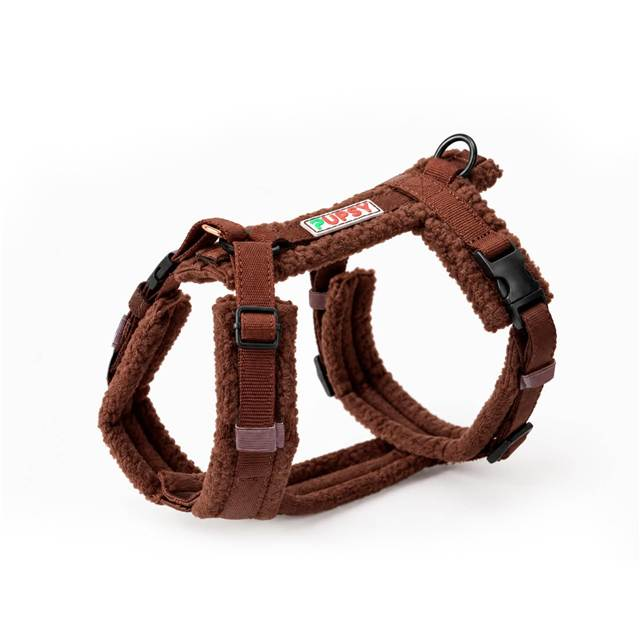
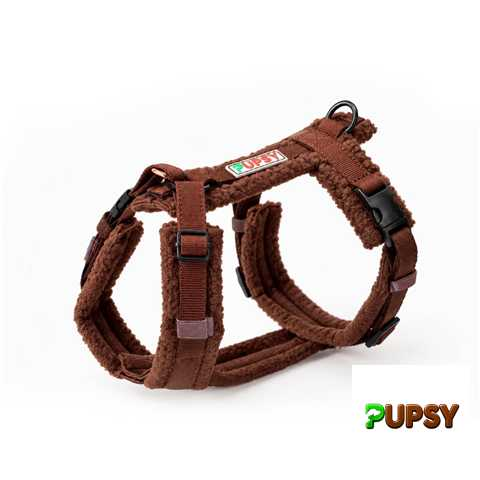
Brand product previews and add collection sharing image

diff --git a/shop.html b/shop.html
@@ -5785,8 +5785,8 @@
   <meta property="og:title" content="Pupsy - Dog Accessories">
   <meta property="og:type" content="website">
   <meta property="og:description" content="Want to look STYLISH while walking your dog? Looking for the BEST dog accessories? Pupsy is focused on providing you with beautiful dog accessories like cotton rope natural dyed dog leashes!">
-  <meta property="og:image" content="https://pupsystores-glitch.github.io/PUPSYWEB/images/pupsy-share-preview-v2.png">
-  <meta property="og:image:secure_url" content="https://pupsystores-glitch.github.io/PUPSYWEB/images/pupsy-share-preview-v2.png"><meta property="og:image:type" content="image/png"><meta property="og:image:width" content="1320"><meta property="og:image:height" content="1154"><meta property="og:image:alt" content="PUPSY logo">
+  <meta property="og:image" content="https://pupsystores-glitch.github.io/PUPSYWEB/images/share/new-collection.jpg">
+  <meta property="og:image:secure_url" content="https://pupsystores-glitch.github.io/PUPSYWEB/images/share/new-collection.jpg"><meta property="og:image:type" content="image/jpeg"><meta property="og:image:width" content="800"><meta property="og:image:height" content="600"><meta property="og:image:alt" content="&#4318;&#4323;&#4307;&#4308;&#4314;&#4312;&#32;&#4321;&#4304;&#4316;&#4304;&#4318;&#4312;&#4320;&#4317;&#4310;&#4308;&#32;&#8212;&#32;&#80;&#85;&#80;&#83;&#89;&#45;&#4312;&#4321;&#32;&#4304;&#4334;&#4304;&#4314;&#4312;&#32;&#4313;&#4317;&#4314;&#4308;&#4325;&#4330;&#4312;&#4304;">
   <meta name="twitter:card" content="summary_large_image">
   <meta name="twitter:title" content="Pupsy - Dog Accessories">
   <meta name="twitter:description" content="Want to look STYLISH while walking your dog? Looking for the BEST dog accessories? Pupsy is focused on providing you with beautiful dog accessories like cotton rope natural dyed dog leashes!">
@@ -16335,7 +16335,7 @@
     }
[1 lines of base64/hex data omitted]
   <meta name="twitter:card" content="summary">
-  <meta name="twitter:image" content="https://pupsystores-glitch.github.io/PUPSYWEB/images/pupsy-share-preview-v2.png">
+  <meta name="twitter:image" content="https://pupsystores-glitch.github.io/PUPSYWEB/images/share/new-collection.jpg">
   <link rel="icon" type="image/png" sizes="192x192" href="https://pupsystores-glitch.github.io/PUPSYWEB/images/pupsy-icon-192.png">
   <link rel="shortcut icon" type="image/x-icon" href="https://pupsystores-glitch.github.io/PUPSYWEB/favicon.ico">
   <link rel="apple-touch-icon" sizes="192x192" href="https://pupsystores-glitch.github.io/PUPSYWEB/images/pupsy-icon-192.png">

diff --git a/admin/dashboard.js b/admin/dashboard.js
@@ -93,7 +93,8 @@ function productShareMarkup(html, product, source, image) {
     .replace(/(<meta (?:property|name)="(?:og:title|twitter:title)" content=")[^"]*"/g, (_, prefix) => `${prefix}${title}"`)
     .replace(/(<meta (?:property|name)="(?:og:image|og:image:secure_url|twitter:image)" content=")[^"]*"/g, (_, prefix) => `${prefix}${preview}"`)
     .replace(/<meta name="pupsy:share-source" content="[^"]*">/g, '')
-    .replace('</head>', () => `<meta name="pupsy:share-source" content="${escapeHtmlAttribute(source)}"></head>`);
+    .replace(/<meta name="pupsy:share-version" content="[^"]*">/g, '')
+    .replace('</head>', () => `<meta name="pupsy:share-source" content="${escapeHtmlAttribute(source)}">${image?.includes('/images/share/') ? '<meta name="pupsy:share-version" content="2">' : ''}</head>`);
 }
 
 async function productShareThumbnail(source) {
@@ -104,18 +105,31 @@ async function productShareThumbnail(source) {
       : source;
     const response = await fetch(download, { signal: AbortSignal.timeout(5000) });
     if (!response.ok) return source;
-    const bitmap = await createImageBitmap(await response.blob());
+    const logoResponse = await fetch(new URL('../images/logo_PUPSY_optimized.png', window.location.href), { signal: AbortSignal.timeout(5000) });
+    if (!logoResponse.ok) return source;
+    const logo = await createImageBitmap(await logoResponse.blob());
+    const blob = await response.blob();
     const canvas = document.createElement('canvas');
     try {
-      const scale = Math.min(1, 640 / Math.max(bitmap.width, bitmap.height));
-      canvas.width = Math.max(1, Math.round(bitmap.width * scale));
-      canvas.height = Math.max(1, Math.round(bitmap.height * scale));
-      const context = canvas.getContext('2d');
-      context.fillStyle = '#fff';
-      context.fillRect(0, 0, canvas.width, canvas.height);
-      context.drawImage(bitmap, 0, 0, canvas.width, canvas.height);
-    } finally { bitmap.close(); }
-    const jpeg = await new Promise(resolve => canvas.toBlob(resolve, 'image/jpeg', 0.7));
+      const bitmap = await createImageBitmap(blob);
+      try {
+        const scale = Math.min(1, 480 / Math.max(bitmap.width, bitmap.height));
+        canvas.width = Math.max(1, Math.round(bitmap.width * scale));
+        canvas.height = Math.max(1, Math.round(bitmap.height * scale));
+        const context = canvas.getContext('2d');
+        context.fillStyle = '#fff';
+        context.fillRect(0, 0, canvas.width, canvas.height);
+        context.drawImage(bitmap, 0, 0, canvas.width, canvas.height);
+        const width = Math.max(1, Math.round(Math.min(canvas.width, canvas.height) * 0.22));
+        const height = Math.max(1, Math.round(width * logo.height / logo.width));
+        const pad = Math.max(1, Math.round(width / 10));
+        const x = canvas.width - width - 2 * pad;
+        const y = canvas.height - height - 2 * pad;
+        context.fillRect(x, y, width + pad, height + pad);
+        context.drawImage(logo, x + pad / 2, y + pad / 2, width, height);
+      } finally { bitmap.close(); }
+    } finally { logo.close(); }
+    const jpeg = await new Promise(resolve => canvas.toBlob(resolve, 'image/jpeg', 0.5));
     const bytes = await jpeg.arrayBuffer();
     const hash = [...new Uint8Array(await crypto.subtle.digest('SHA-256', bytes))]
       .map(byte => byte.toString(16).padStart(2, '0')).join('');
@@ -148,7 +162,8 @@ async function saveProductRoute(product) {
     if (error.status !== 404) throw error;
   }
   const source = productShareSource(product);
-  const unchangedSource = original.includes(`name="pupsy:share-source" content="${escapeHtmlAttribute(source)}"`);
+  const unchangedSource = original.includes(`name="pupsy:share-source" content="${escapeHtmlAttribute(source)}"`)
+    && original.includes('name="pupsy:share-version" content="2"');
   const image = unchangedSource ? /property="og:image" content="([^"]+)"/.exec(original)?.[1]?.replaceAll('&amp;', '&') : '';
   const updated = productShareMarkup(original, product, source, image || await productShareThumbnail(source));
   if (sha && original === updated) return;

diff --git a/about.html b/about.html
@@ -4883,8 +4883,8 @@
   <meta property="og:title" content="Pupsy - Dog Accessories">
   <meta property="og:type" content="website">
   <meta property="og:description" content="Want to look STYLISH while walking your dog? Looking for the BEST dog accessories? Pupsy is focused on providing you with beautiful dog accessories like cotton rope natural dyed dog leashes!">
-  <meta property="og:image" content="https://pupsystores-glitch.github.io/PUPSYWEB/images/pupsy-share-preview-v2.png">
-  <meta property="og:image:secure_url" content="https://pupsystores-glitch.github.io/PUPSYWEB/images/pupsy-share-preview-v2.png"><meta property="og:image:type" content="image/png"><meta property="og:image:width" content="1320"><meta property="og:image:height" content="1154"><meta property="og:image:alt" content="PUPSY logo">
+  <meta property="og:image" content="https://pupsystores-glitch.github.io/PUPSYWEB/images/share/new-collection.jpg">
+  <meta property="og:image:secure_url" content="https://pupsystores-glitch.github.io/PUPSYWEB/images/share/new-collection.jpg"><meta property="og:image:type" content="image/jpeg"><meta property="og:image:width" content="800"><meta property="og:image:height" content="600"><meta property="og:image:alt" content="&#4318;&#4323;&#4307;&#4308;&#4314;&#4312;&#32;&#4321;&#4304;&#4316;&#4304;&#4318;&#4312;&#4320;&#4317;&#4310;&#4308;&#32;&#8212;&#32;&#80;&#85;&#80;&#83;&#89;&#45;&#4312;&#4321;&#32;&#4304;&#4334;&#4304;&#4314;&#4312;&#32;&#4313;&#4317;&#4314;&#4308;&#4325;&#4330;&#4312;&#4304;">
   <meta name="twitter:card" content="summary_large_image">
   <meta name="twitter:title" content="Pupsy - Dog Accessories">
   <meta name="twitter:description" content="Want to look STYLISH while walking your dog? Looking for the BEST dog accessories? Pupsy is focused on providing you with beautiful dog accessories like cotton rope natural dyed dog leashes!">
@@ -14148,7 +14148,7 @@
       vertical-align: 0em;
     }
[1 lines of base64/hex data omitted]
-  <meta name="twitter:image" content="https://pupsystores-glitch.github.io/PUPSYWEB/images/pupsy-share-preview-v2.png">
+  <meta name="twitter:image" content="https://pupsystores-glitch.github.io/PUPSYWEB/images/share/new-collection.jpg">
   <link rel="icon" type="image/png" sizes="192x192" href="https://pupsystores-glitch.github.io/PUPSYWEB/images/pupsy-icon-192.png">
   <link rel="shortcut icon" type="image/x-icon" href="https://pupsystores-glitch.github.io/PUPSYWEB/favicon.ico">
   <link rel="apple-touch-icon" sizes="192x192" href="https://pupsystores-glitch.github.io/PUPSYWEB/images/pupsy-icon-192.png">

diff --git a/product-pages/sportuli-kepi.html b/product-pages/sportuli-kepi.html
@@ -1,1 +1,1 @@
-<!doctype html><html lang="ka"><head><meta charset="utf-8"><meta name="viewport" content="width=device-width,initial-scale=1"><title>სპორტული კეპი | PUPSY</title><meta name="description" content="Discover PUPSY products for dogs."><link rel="canonical" href="https://pupsystores-glitch.github.io/PUPSYWEB/product-pages/sportuli-kepi.html"><meta property="og:type" content="product"><meta property="og:site_name" content="PUPSY"><meta property="og:title" content="სპორტული კეპი"><meta property="og:description" content="Discover PUPSY products for dogs."><meta property="og:url" content="https://pupsystores-glitch.github.io/PUPSYWEB/product-pages/sportuli-kepi.html"><meta property="og:image" content="https://pupsystores-glitch.github.io/PUPSYWEB/images/share/sportuli-kepi.jpg"><meta property="og:image:secure_url" content="https://pupsystores-glitch.github.io/PUPSYWEB/images/share/sportuli-kepi.jpg"><meta property="og:image:type" content="image/png"><meta property="og:image:width" content="1320"><meta property="og:image:height" content="1154"><meta property="og:image:alt" content="PUPSY logo"><meta name="twitter:card" content="summary_large_image"><meta name="twitter:title" content="სპორტული კეპი"><meta name="twitter:description" content="Discover PUPSY products for dogs."><meta name="twitter:image" content="https://pupsystores-glitch.github.io/PUPSYWEB/images/share/sportuli-kepi.jpg"><link rel="icon" type="image/png" sizes="192x192" href="https://pupsystores-glitch.github.io/PUPSYWEB/images/pupsy-icon-192.png"><link rel="apple-touch-icon" sizes="192x192" href="https://pupsystores-glitch.github.io/PUPSYWEB/images/pupsy-icon-192.png"><meta name="pupsy:share-source" content="https://pupsystores-glitch.github.io/PUPSYWEB/images/uploads/1793029275693-3593e7fd-67b9-405a-83d9-93fd6ff7f00a-IMG_9337.jpeg"></head><body><script src="../js/cms-product-route.js?v=2" defer></script></body></html>
+<!doctype html><html lang="ka"><head><meta charset="utf-8"><meta name="viewport" content="width=device-width,initial-scale=1"><title>სპორტული კეპი | PUPSY</title><meta name="description" content="Discover PUPSY products for dogs."><link rel="canonical" href="https://pupsystores-glitch.github.io/PUPSYWEB/product-pages/sportuli-kepi.html"><meta property="og:type" content="product"><meta property="og:site_name" content="PUPSY"><meta property="og:title" content="სპორტული კეპი"><meta property="og:description" content="Discover PUPSY products for dogs."><meta property="og:url" content="https://pupsystores-glitch.github.io/PUPSYWEB/product-pages/sportuli-kepi.html"><meta property="og:image" content="https://pupsystores-glitch.github.io/PUPSYWEB/images/share/sportuli-kepi.jpg?v=2"><meta property="og:image:secure_url" content="https://pupsystores-glitch.github.io/PUPSYWEB/images/share/sportuli-kepi.jpg?v=2"><meta property="og:image:type" content="image/png"><meta property="og:image:width" content="1320"><meta property="og:image:height" content="1154"><meta property="og:image:alt" content="PUPSY logo"><meta name="twitter:card" content="summary_large_image"><meta name="twitter:title" content="სპორტული კეპი"><meta name="twitter:description" content="Discover PUPSY products for dogs."><meta name="twitter:image" content="https://pupsystores-glitch.github.io/PUPSYWEB/images/share/sportuli-kepi.jpg?v=2"><link rel="icon" type="image/png" sizes="192x192" href="https://pupsystores-glitch.github.io/PUPSYWEB/images/pupsy-icon-192.png"><link rel="apple-touch-icon" sizes="192x192" href="https://pupsystores-glitch.github.io/PUPSYWEB/images/pupsy-icon-192.png"><meta name="pupsy:share-source" content="https://pupsystores-glitch.github.io/PUPSYWEB/images/uploads/1793029275693-3593e7fd-67b9-405a-83d9-93fd6ff7f00a-IMG_9337.jpeg"><meta name="pupsy:share-version" content="2"></head><body><script src="../js/cms-product-route.js?v=2" defer></script></body></html>

diff --git a/product-pages/ortklis-savartskheli.html b/product-pages/ortklis-savartskheli.html
@@ -1,1 +1,1 @@
-<!doctype html><html lang="ka"><head><meta charset="utf-8"><meta name="viewport" content="width=device-width,initial-scale=1"><title>ორთქლის სავარცხელი | PUPSY</title><meta name="description" content="Discover PUPSY products for dogs."><meta property="og:type" content="product"><meta property="og:site_name" content="PUPSY"><meta property="og:title" content="ორთქლის სავარცხელი"><meta property="og:description" content="Discover PUPSY products for dogs."><meta property="og:url" content="https://pupsystores-glitch.github.io/PUPSYWEB/product-pages/ortklis-savartskheli.html"><meta property="og:image" content="https://pupsystores-glitch.github.io/PUPSYWEB/images/share/ortklis-savartskheli.jpg"><meta property="og:image:secure_url" content="https://pupsystores-glitch.github.io/PUPSYWEB/images/share/ortklis-savartskheli.jpg"><meta name="twitter:card" content="summary_large_image"><meta name="twitter:title" content="ორთქლის სავარცხელი"><meta name="twitter:description" content="Discover PUPSY products for dogs."><meta name="twitter:image" content="https://pupsystores-glitch.github.io/PUPSYWEB/images/share/ortklis-savartskheli.jpg"><link rel="icon" type="image/png" sizes="192x192" href="../images/pupsy-icon-192.png"><link rel="shortcut icon" type="image/x-icon" href="../favicon.ico"><link rel="apple-touch-icon" sizes="192x192" href="../images/pupsy-icon-192.png"><meta name="pupsy:share-source" content="https://pupsystores-glitch.github.io/PUPSYWEB/images/uploads/1793978887574-7b5f13fd-41b9-4245-8f92-dc5eaef3722c-IMG_9496.jpeg"></head><body><script src="../js/cms-product-route.js?v=2" defer></script></body></html>
+<!doctype html><html lang="ka"><head><meta charset="utf-8"><meta name="viewport" content="width=device-width,initial-scale=1"><title>ორთქლის სავარცხელი | PUPSY</title><meta name="description" content="Discover PUPSY products for dogs."><meta property="og:type" content="product"><meta property="og:site_name" content="PUPSY"><meta property="og:title" content="ორთქლის სავარცხელი"><meta property="og:description" content="Discover PUPSY products for dogs."><meta property="og:url" content="https://pupsystores-glitch.github.io/PUPSYWEB/product-pages/ortklis-savartskheli.html"><meta property="og:image" content="https://pupsystores-glitch.github.io/PUPSYWEB/images/share/ortklis-savartskheli.jpg?v=2"><meta property="og:image:secure_url" content="https://pupsystores-glitch.github.io/PUPSYWEB/images/share/ortklis-savartskheli.jpg?v=2"><meta name="twitter:card" content="summary_large_image"><meta name="twitter:title" content="ორთქლის სავარცხელი"><meta name="twitter:description" content="Discover PUPSY products for dogs."><meta name="twitter:image" content="https://pupsystores-glitch.github.io/PUPSYWEB/images/share/ortklis-savartskheli.jpg?v=2"><link rel="icon" type="image/png" sizes="192x192" href="../images/pupsy-icon-192.png"><link rel="shortcut icon" type="image/x-icon" href="../favicon.ico"><link rel="apple-touch-icon" sizes="192x192" href="../images/pupsy-icon-192.png"><meta name="pupsy:share-source" content="https://pupsystores-glitch.github.io/PUPSYWEB/images/uploads/1793978887574-7b5f13fd-41b9-4245-8f92-dc5eaef3722c-IMG_9496.jpeg"><meta name="pupsy:share-version" content="2"></head><body><script src="../js/cms-product-route.js?v=2" defer></script></body></html>

diff --git a/product-pages/Tedy-brown-harness.html b/product-pages/Tedy-brown-harness.html
@@ -1,1 +1,1 @@
-<!doctype html><html lang="ka"><head><meta charset="utf-8"><meta name="viewport" content="width=device-width,initial-scale=1"><title>წელსამაგრი TEDY | PUPSY</title><meta name="description" content="Discover PUPSY products for dogs."><meta property="og:type" content="product"><meta property="og:site_name" content="PUPSY"><meta property="og:title" content="წელსამაგრი TEDY"><meta property="og:description" content="Discover PUPSY products for dogs."><meta property="og:url" content="https://pupsystores-glitch.github.io/PUPSYWEB/product-pages/Tedy-brown-harness.html"><meta property="og:image" content="https://pupsystores-glitch.github.io/PUPSYWEB/images/share/Tedy-brown-harness.jpg"><meta property="og:image:secure_url" content="https://pupsystores-glitch.github.io/PUPSYWEB/images/share/Tedy-brown-harness.jpg"><meta name="twitter:card" content="summary_large_image"><meta name="twitter:title" content="წელსამაგრი TEDY"><meta name="twitter:description" content="Discover PUPSY products for dogs."><meta name="twitter:image" content="https://pupsystores-glitch.github.io/PUPSYWEB/images/share/Tedy-brown-harness.jpg"><link rel="icon" type="image/png" sizes="192x192" href="../images/pupsy-icon-192.png"><link rel="shortcut icon" type="image/x-icon" href="../favicon.ico"><link rel="apple-touch-icon" sizes="192x192" href="../images/pupsy-icon-192.png"><meta name="pupsy:share-source" content="https://pupsystores-glitch.github.io/PUPSYWEB/images/uploads/1793989068554-ed75ce1d-fc89-427f-83a3-5bd6dca0c4a4-6D9113C9-598F-408A-92BD-E6078E274DD4.jpeg"></head><body><script src="../js/cms-product-route.js?v=2" defer></script></body></html>
+<!doctype html><html lang="ka"><head><meta charset="utf-8"><meta name="viewport" content="width=device-width,initial-scale=1"><title>წელსამაგრი TEDY | PUPSY</title><meta name="description" content="Discover PUPSY products for dogs."><meta property="og:type" content="product"><meta property="og:site_name" content="PUPSY"><meta property="og:title" content="წელსამაგრი TEDY"><meta property="og:description" content="Discover PUPSY products for dogs."><meta property="og:url" content="https://pupsystores-glitch.github.io/PUPSYWEB/product-pages/Tedy-brown-harness.html"><meta property="og:image" content="https://pupsystores-glitch.github.io/PUPSYWEB/images/share/Tedy-brown-harness.jpg?v=2"><meta property="og:image:secure_url" content="https://pupsystores-glitch.github.io/PUPSYWEB/images/share/Tedy-brown-harness.jpg?v=2"><meta name="twitter:card" content="summary_large_image"><meta name="twitter:title" content="წელსამაგრი TEDY"><meta name="twitter:description" content="Discover PUPSY products for dogs."><meta name="twitter:image" content="https://pupsystores-glitch.github.io/PUPSYWEB/images/share/Tedy-brown-harness.jpg?v=2"><link rel="icon" type="image/png" sizes="192x192" href="../images/pupsy-icon-192.png"><link rel="shortcut icon" type="image/x-icon" href="../favicon.ico"><link rel="apple-touch-icon" sizes="192x192" href="../images/pupsy-icon-192.png"><meta name="pupsy:share-source" content="https://pupsystores-glitch.github.io/PUPSYWEB/images/uploads/1793989068554-ed75ce1d-fc89-427f-83a3-5bd6dca0c4a4-6D9113C9-598F-408A-92BD-E6078E274DD4.jpeg"><meta name="pupsy:share-version" content="2"></head><body><script src="../js/cms-product-route.js?v=2" defer></script></body></html>

diff --git a/product-pages/tsqlis-botli.html b/product-pages/tsqlis-botli.html
@@ -1,1 +1,1 @@
-<!doctype html><html lang="ka"><head><meta charset="utf-8"><meta name="viewport" content="width=device-width,initial-scale=1"><title>წყლის ბოთლი | PUPSY</title><meta name="description" content="Discover PUPSY products for dogs."><meta property="og:type" content="product"><meta property="og:site_name" content="PUPSY"><meta property="og:title" content="წყლის ბოთლი"><meta property="og:description" content="Discover PUPSY products for dogs."><meta property="og:url" content="https://pupsystores-glitch.github.io/PUPSYWEB/product-pages/tsqlis-botli.html"><meta property="og:image" content="https://pupsystores-glitch.github.io/PUPSYWEB/images/share/tsqlis-botli.jpg"><meta property="og:image:secure_url" content="https://pupsystores-glitch.github.io/PUPSYWEB/images/share/tsqlis-botli.jpg"><meta name="twitter:card" content="summary_large_image"><meta name="twitter:title" content="წყლის ბოთლი"><meta name="twitter:description" content="Discover PUPSY products for dogs."><meta name="twitter:image" content="https://pupsystores-glitch.github.io/PUPSYWEB/images/share/tsqlis-botli.jpg"><link rel="icon" type="image/png" sizes="192x192" href="../images/pupsy-icon-192.png"><link rel="shortcut icon" type="image/x-icon" href="../favicon.ico"><link rel="apple-touch-icon" sizes="192x192" href="../images/pupsy-icon-192.png"><meta name="pupsy:share-source" content="https://pupsystores-glitch.github.io/PUPSYWEB/images/uploads/1793472834475-0dbb030e-a09d-4cee-a45d-b128ea426049-IMG_9279.png"></head><body><script src="../js/cms-product-route.js?v=2" defer></script></body></html>
+<!doctype html><html lang="ka"><head><meta charset="utf-8"><meta name="viewport" content="width=device-width,initial-scale=1"><title>წყლის ბოთლი | PUPSY</title><meta name="description" content="Discover PUPSY products for dogs."><meta property="og:type" content="product"><meta property="og:site_name" content="PUPSY"><meta property="og:title" content="წყლის ბოთლი"><meta property="og:description" content="Discover PUPSY products for dogs."><meta property="og:url" content="https://pupsystores-glitch.github.io/PUPSYWEB/product-pages/tsqlis-botli.html"><meta property="og:image" content="https://pupsystores-glitch.github.io/PUPSYWEB/images/share/tsqlis-botli.jpg?v=2"><meta property="og:image:secure_url" content="https://pupsystores-glitch.github.io/PUPSYWEB/images/share/tsqlis-botli.jpg?v=2"><meta name="twitter:card" content="summary_large_image"><meta name="twitter:title" content="წყლის ბოთლი"><meta name="twitter:description" content="Discover PUPSY products for dogs."><meta name="twitter:image" content="https://pupsystores-glitch.github.io/PUPSYWEB/images/share/tsqlis-botli.jpg?v=2"><link rel="icon" type="image/png" sizes="192x192" href="../images/pupsy-icon-192.png"><link rel="shortcut icon" type="image/x-icon" href="../favicon.ico"><link rel="apple-touch-icon" sizes="192x192" href="../images/pupsy-icon-192.png"><meta name="pupsy:share-source" content="https://pupsystores-glitch.github.io/PUPSYWEB/images/uploads/1793472834475-0dbb030e-a09d-4cee-a45d-b128ea426049-IMG_9279.png"><meta name="pupsy:share-version" content="2"></head><body><script src="../js/cms-product-route.js?v=2" defer></script></body></html>

diff --git a/ambassador.html b/ambassador.html
@@ -4883,8 +4883,8 @@
   <meta property="og:title" content="Pupsy - Dog Accessories">
   <meta property="og:type" content="website">
   <meta property="og:description" content="Want to look STYLISH while walking your dog? Looking for the BEST dog accessories? Pupsy is focused on providing you with beautiful dog accessories like cotton rope natural dyed dog leashes!">
-  <meta property="og:image" content="https://pupsystores-glitch.github.io/PUPSYWEB/images/pupsy-share-preview-v2.png">
-  <meta property="og:image:secure_url" content="https://pupsystores-glitch.github.io/PUPSYWEB/images/pupsy-share-preview-v2.png"><meta property="og:image:type" content="image/png"><meta property="og:image:width" content="1320"><meta property="og:image:height" content="1154"><meta property="og:image:alt" content="PUPSY logo">
+  <meta property="og:image" content="https://pupsystores-glitch.github.io/PUPSYWEB/images/share/new-collection.jpg">
+  <meta property="og:image:secure_url" content="https://pupsystores-glitch.github.io/PUPSYWEB/images/share/new-collection.jpg"><meta property="og:image:type" content="image/jpeg"><meta property="og:image:width" content="800"><meta property="og:image:height" content="600"><meta property="og:image:alt" content="&#4318;&#4323;&#4307;&#4308;&#4314;&#4312;&#32;&#4321;&#4304;&#4316;&#4304;&#4318;&#4312;&#4320;&#4317;&#4310;&#4308;&#32;&#8212;&#32;&#80;&#85;&#80;&#83;&#89;&#45;&#4312;&#4321;&#32;&#4304;&#4334;&#4304;&#4314;&#4312;&#32;&#4313;&#4317;&#4314;&#4308;&#4325;&#4330;&#4312;&#4304;">
   <meta name="twitter:card" content="summary_large_image">
   <meta name="twitter:title" content="Pupsy - Dog Accessories">
   <meta name="twitter:description" content="Want to look STYLISH while walking your dog? Looking for the BEST dog accessories? Pupsy is focused on providing you with beautiful dog accessories like cotton rope natural dyed dog leashes!">
@@ -13866,7 +13866,7 @@
       vertical-align: 0em;
     }
   </style><link href="https://instafeed.nfcube.com/cdn/instafeed-16.5.0.css" type="text/css" rel="stylesheet" media="screen,print">  <meta name="twitter:card" content="summary">
-  <meta name="twitter:image" content="https://pupsystores-glitch.github.io/PUPSYWEB/images/pupsy-share-preview-v2.png">
+  <meta name="twitter:image" content="https://pupsystores-glitch.github.io/PUPSYWEB/images/share/new-collection.jpg">
   <link rel="icon" type="image/png" sizes="192x192" href="https://pupsystores-glitch.github.io/PUPSYWEB/images/pupsy-icon-192.png">
   <link rel="shortcut icon" type="image/x-icon" href="https://pupsystores-glitch.github.io/PUPSYWEB/favicon.ico">
   <link rel="apple-touch-icon" sizes="192x192" href="https://pupsystores-glitch.github.io/PUPSYWEB/images/pupsy-icon-192.png">

diff --git a/contact.html b/contact.html
@@ -4883,8 +4883,8 @@
   <meta property="og:title" content="Pupsy - Dog Accessories">
   <meta property="og:type" content="website">
   <meta property="og:description" content="Want to look STYLISH while walking your dog? Looking for the BEST dog accessories? Pupsy is focused on providing you with beautiful dog accessories like cotton rope natural dyed dog leashes!">
-  <meta property="og:image" content="https://pupsystores-glitch.github.io/PUPSYWEB/images/pupsy-share-preview-v2.png">
-  <meta property="og:image:secure_url" content="https://pupsystores-glitch.github.io/PUPSYWEB/images/pupsy-share-preview-v2.png"><meta property="og:image:type" content="image/png"><meta property="og:image:width" content="1320"><meta property="og:image:height" content="1154"><meta property="og:image:alt" content="PUPSY logo">
+  <meta property="og:image" content="https://pupsystores-glitch.github.io/PUPSYWEB/images/share/new-collection.jpg">
+  <meta property="og:image:secure_url" content="https://pupsystores-glitch.github.io/PUPSYWEB/images/share/new-collection.jpg"><meta property="og:image:type" content="image/jpeg"><meta property="og:image:width" content="800"><meta property="og:image:height" content="600"><meta property="og:image:alt" content="&#4318;&#4323;&#4307;&#4308;&#4314;&#4312;&#32;&#4321;&#4304;&#4316;&#4304;&#4318;&#4312;&#4320;&#4317;&#4310;&#4308;&#32;&#8212;&#32;&#80;&#85;&#80;&#83;&#89;&#45;&#4312;&#4321;&#32;&#4304;&#4334;&#4304;&#4314;&#4312;&#32;&#4313;&#4317;&#4314;&#4308;&#4325;&#4330;&#4312;&#4304;">
   <meta name="twitter:card" content="summary_large_image">
   <meta name="twitter:title" content="Pupsy - Dog Accessories">
   <meta name="twitter:description" content="Want to look STYLISH while walking your dog? Looking for the BEST dog accessories? Pupsy is focused on providing you with beautiful dog accessories like cotton rope natural dyed dog leashes!">
@@ -13634,7 +13634,7 @@
       vertical-align: 0em;
     }
   </style>  <meta name="twitter:card" content="summary">
-  <meta name="twitter:image" content="https://pupsystores-glitch.github.io/PUPSYWEB/images/pupsy-share-preview-v2.png">
+  <meta name="twitter:image" content="https://pupsystores-glitch.github.io/PUPSYWEB/images/share/new-collection.jpg">
   <link rel="icon" type="image/png" sizes="192x192" href="https://pupsystores-glitch.github.io/PUPSYWEB/images/pupsy-icon-192.png">
   <link rel="shortcut icon" type="image/x-icon" href="https://pupsystores-glitch.github.io/PUPSYWEB/favicon.ico">
   <link rel="apple-touch-icon" sizes="192x192" href="https://pupsystores-glitch.github.io/PUPSYWEB/images/pupsy-icon-192.png">

diff --git a/index.html b/index.html
@@ -2899,8 +2899,8 @@
   <meta property="og:title" content="Pupsy - Dog Accessories">
   <meta property="og:type" content="website">
   <meta property="og:description" content="Want to look STYLISH while walking your dog? Looking for the BEST dog accessories? Pupsy is focused on providing you with beautiful dog accessories like cotton rope natural dyed dog leashes!">
-  <meta property="og:image" content="https://pupsystores-glitch.github.io/PUPSYWEB/images/pupsy-share-preview-v2.png">
-  <meta property="og:image:secure_url" content="https://pupsystores-glitch.github.io/PUPSYWEB/images/pupsy-share-preview-v2.png"><meta property="og:image:type" content="image/png"><meta property="og:image:width" content="1320"><meta property="og:image:height" content="1154"><meta property="og:image:alt" content="PUPSY logo">
+  <meta property="og:image" content="https://pupsystores-glitch.github.io/PUPSYWEB/images/share/new-collection.jpg">
+  <meta property="og:image:secure_url" content="https://pupsystores-glitch.github.io/PUPSYWEB/images/share/new-collection.jpg"><meta property="og:image:type" content="image/jpeg"><meta property="og:image:width" content="800"><meta property="og:image:height" content="600"><meta property="og:image:alt" content="&#4318;&#4323;&#4307;&#4308;&#4314;&#4312;&#32;&#4321;&#4304;&#4316;&#4304;&#4318;&#4312;&#4320;&#4317;&#4310;&#4308;&#32;&#8212;&#32;&#80;&#85;&#80;&#83;&#89;&#45;&#4312;&#4321;&#32;&#4304;&#4334;&#4304;&#4314;&#4312;&#32;&#4313;&#4317;&#4314;&#4308;&#4325;&#4330;&#4312;&#4304;">
   <meta name="twitter:card" content="summary_large_image">
   <meta name="twitter:title" content="Pupsy - Dog Accessories">
   <meta name="twitter:description" content="Want to look STYLISH while walking your dog? Looking for the BEST dog accessories? Pupsy is focused on providing you with beautiful dog accessories like cotton rope natural dyed dog leashes!">
@@ -8760,7 +8760,7 @@
   padding-left: 5px;
 }
 </style>  <meta name="twitter:card" content="summary">
-  <meta name="twitter:image" content="https://pupsystores-glitch.github.io/PUPSYWEB/images/pupsy-share-preview-v2.png">
+  <meta name="twitter:image" content="https://pupsystores-glitch.github.io/PUPSYWEB/images/share/new-collection.jpg">
   <link rel="icon" type="image/png" sizes="192x192" href="https://pupsystores-glitch.github.io/PUPSYWEB/images/pupsy-icon-192.png">
   <link rel="shortcut icon" type="image/x-icon" href="https://pupsystores-glitch.github.io/PUPSYWEB/favicon.ico">
   <link rel="apple-touch-icon" sizes="192x192" href="https://pupsystores-glitch.github.io/PUPSYWEB/images/pupsy-icon-192.png">

diff --git a/admin/index.html b/admin/index.html
@@ -529,6 +529,6 @@
     </div>
 
     <!-- Application JavaScript State & Controller -->
-    <script src="dashboard.js?v=45"></script>
+    <script src="dashboard.js?v=46"></script>
 </body>
 </html>
